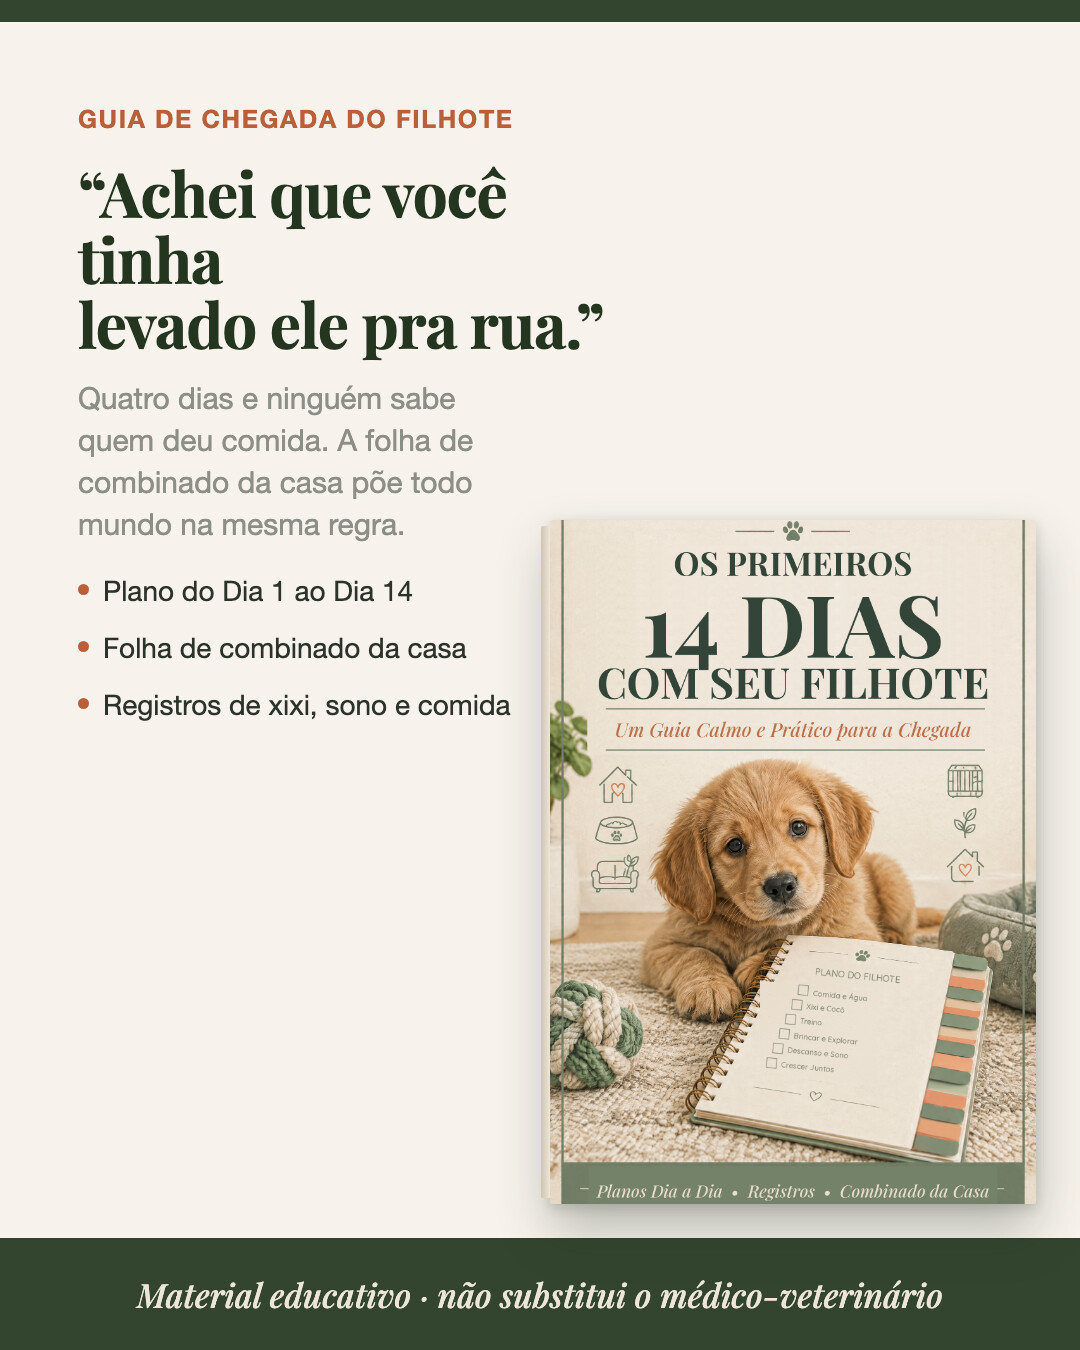
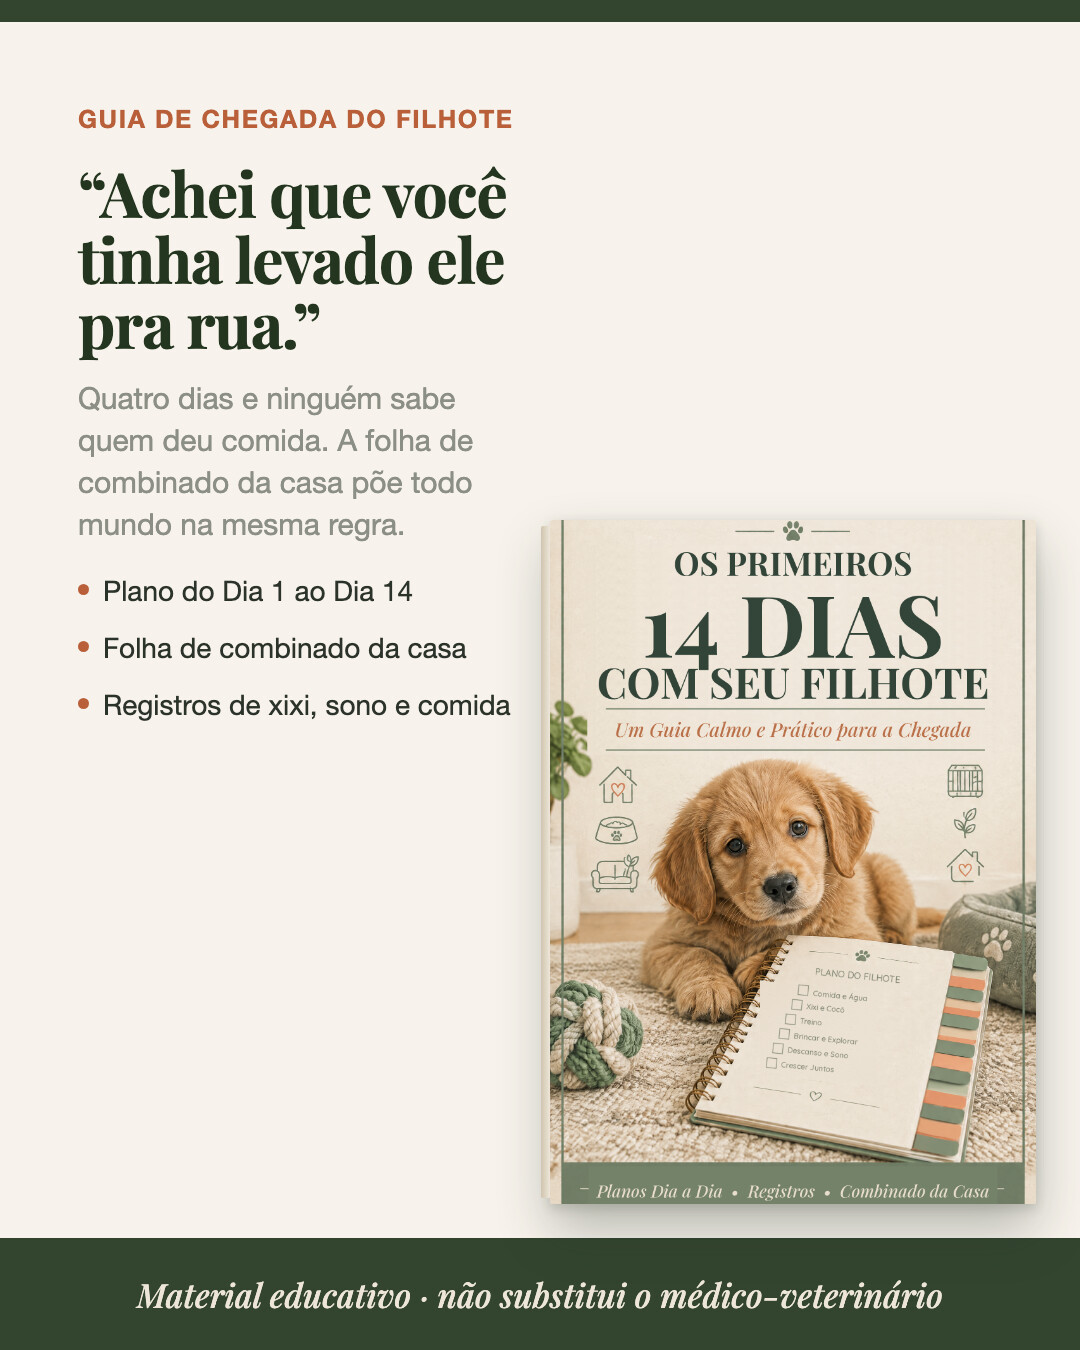
livro integro 70 paginas: apendice duplicado removido, capa completa; criativos e landing atualizados

Changed region(s): [[0.0611, 0.1556, 0.55, 0.28]]

diff --git a/index.html b/index.html
@@ -80,7 +80,7 @@ fbq('track','ViewContent',{content_name:'Os Primeiros 14 Dias com Seu Filhote',c
       <p class="lead">Um guia dia a dia das duas primeiras semanas em casa, escrito a partir de material publicado por instituições veterinárias. Todo dia traz as mesmas duas linhas: o que é <em>ligar para o veterinário de manhã</em> e o que é <em>ir agora</em>.</p>
       <a class="btn" href="https://pay.cakto.com.br/u468rzc">Quero o guia por R$ 56 →</a>
       <div class="proof">
-        <span><i class="dot"></i>62 páginas, pra imprimir ou ler no celular</span>
+        <span><i class="dot"></i>70 páginas, pra imprimir ou ler no celular</span>
         <span><i class="dot"></i>7 dias de garantia</span>
       </div>
     </div>
@@ -135,7 +135,7 @@ fbq('track','ViewContent',{content_name:'Os Primeiros 14 Dias com Seu Filhote',c
     <div class="small" style="letter-spacing:.1em;text-transform:uppercase">Download imediato</div>
     <div class="valor">R$ 56</div>
     <p class="small">R$ 56 à vista no Pix ou no cartão — ou <strong>8x de R$ 8,40</strong></p>
-    <p class="small" style="margin-top:-8px">62 páginas · PDF em A4 · o acesso à área de membros chega no seu e-mail logo após o pagamento</p>
+    <p class="small" style="margin-top:-8px">70 páginas · PDF em A4 · o acesso à área de membros chega no seu e-mail logo após o pagamento</p>
     <p class="small" style="margin-top:-6px;opacity:.8">No checkout a Cakto cobra R$ 0,99 de taxa de serviço: <strong>à vista o total fica R$ 56,99</strong>. Parcelado em 8x, os juros são da operadora do cartão e o <strong>total financiado fica R$ 67,20</strong> (18,15% de juros). No Pix não há juros.</p>
     <p style="margin:22px 0 18px"><a class="btn" href="https://pay.cakto.com.br/u468rzc">Quero o guia →</a></p>
     <p class="small" style="margin:0">Pagamento pela Cakto. 7 dias de garantia, sem precisar explicar nada.</p>
@@ -150,7 +150,7 @@ fbq('track','ViewContent',{content_name:'Os Primeiros 14 Dias com Seu Filhote',c
     <p>A tabela não te diz o que nada daquilo significa. São 23h40, ele não come desde de manhã, está quieto há duas horas, e a folha que você imprimiu tem um quadradinho pra isso mas nenhuma linha sobre isso. Aí você pesquisa no celular, e a busca te mostra um caso fatal e um "é normal" na mesma tela.</p>
     <p>Este guia foi feito pra esse minuto específico. Cada um dos 14 dias tem a linha que separa o que rende um telefonema de manhã do que não espera — e uma lista curta e direta do que não espera, tirada de material veterinário publicado e citado onde é usado.</p>
     <p>Ele não substitui o seu veterinário, e não é pra isso que serve. O que ele faz é deixar a ligação mais curta e mais útil: você vai saber o que viu, quando começou, e se deve ligar agora ou às 8 da manhã.</p></details>
-  <details><summary>O que exatamente eu recebo?</summary><p>Um PDF de 62 páginas em A4, pronto para impressão — com a preparação de antes da chegada, o plano do Dia 1 ao 14, a triagem rotina-ou-agora em todos os dias, os sinais de emergência, a seção de resolução de problemas, o protocolo do Dia 10 para visitas e crianças, as folhas de combinado da casa e os registros. O acesso vai para o e-mail que você usar no pagamento.</p></details>
+  <details><summary>O que exatamente eu recebo?</summary><p>Um PDF de 70 páginas em A4, pronto para impressão — com a preparação de antes da chegada, o plano do Dia 1 ao 14, a triagem rotina-ou-agora em todos os dias, os sinais de emergência, a seção de resolução de problemas, o protocolo do Dia 10 para visitas e crianças, as folhas de combinado da casa e os registros. O acesso vai para o e-mail que você usar no pagamento.</p></details>
   <details><summary>Isso é um curso de adestramento?</summary><p>Não. É um guia de chegada. Ele não promete resultado de treino nem resultado de saúde, e não substitui o seu médico-veterinário.</p></details>
   <details><summary>Meu filhote já está em casa. Perdi a hora?</summary><p>Não. Comece pelo dia em que você está. A parte de antes da chegada vira uma checagem de recuperação, e todo o resto funciona a partir de qualquer dia.</p></details>
   <details><summary>E se não for pra mim?</summary><p>Você tem 7 dias para pedir o reembolso integral pela Cakto. Sem precisar explicar nada.</p></details>

diff --git a/termos.html b/termos.html
@@ -22,7 +22,7 @@ footer{border-top:1px solid var(--line);margin-top:44px;padding-top:22px;font-si
 <p class="data">Última atualização: 25 de setembro de 2026</p>
 
 <h2>O que você está comprando</h2>
-<p><strong>Os Primeiros 14 Dias com Seu Filhote</strong> é um <strong>produto digital</strong>: um arquivo PDF de 62 páginas, em A4, entregue na área de membros da Cakto. Não há entrega física. O acesso é liberado logo após a confirmação do pagamento, no e-mail que você usar na compra.</p>
+<p><strong>Os Primeiros 14 Dias com Seu Filhote</strong> é um <strong>produto digital</strong>: um arquivo PDF de 70 páginas, em A4, entregue na área de membros da Cakto. Não há entrega física. O acesso é liberado logo após a confirmação do pagamento, no e-mail que você usar na compra.</p>
 
 <h2>Preço e pagamento</h2>
 <p>R$ 56,00 à vista, no Pix ou no cartão. A Cakto cobra R$ 0,99 de taxa de serviço, então <strong>à vista o total é R$ 56,99</strong>. Parcelando em até 8x, os juros são da operadora do cartão e o <strong>total financiado chega a R$ 67,20</strong>. No Pix não há juros. Quem processa o pagamento é a <strong>Cakto</strong>; a cobrança aparece na sua fatura como Cakto.</p>
